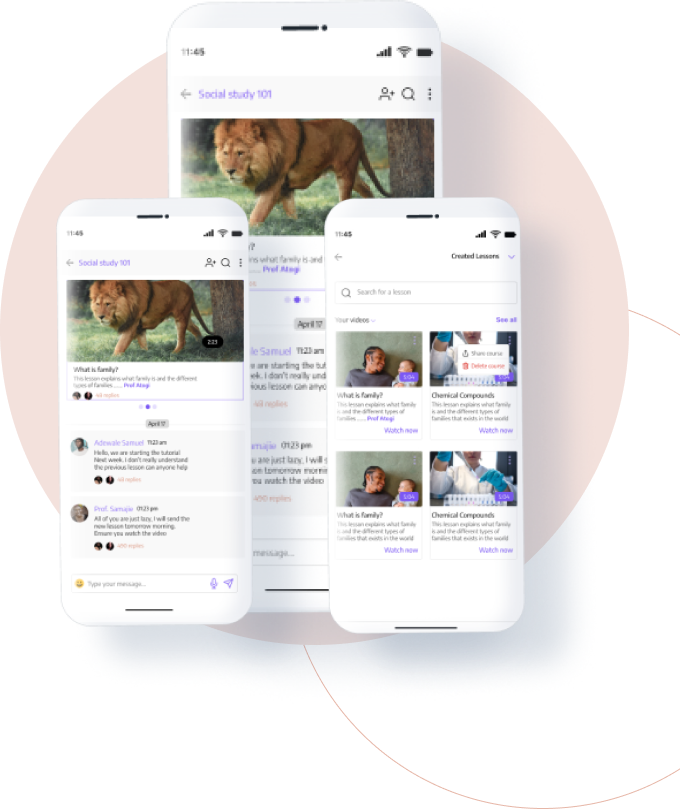
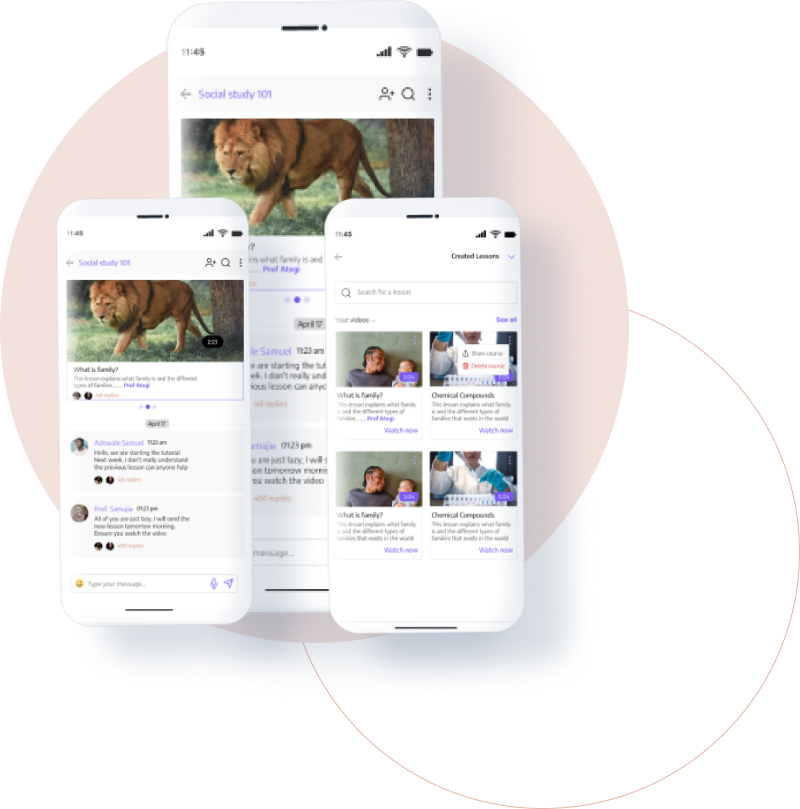
fix: correct text on features card and footer

diff --git a/utils/staticData.ts b/utils/staticData.ts
@@ -41,15 +41,15 @@ export interface SocialBtnProps {
 export const features = [
   {
     src: "/images/features/pana.png",
-    desc: "Tutors create a video lesson, by verbally explaining the visuals lesson slides while screen recording",
+    desc: "Tutors create a video lesson, by verbally explaining the visuals lesson slides while screen recording.",
   },
   {
     src: "/images/features/cuate.png",
-    desc: "Learners access the video lessons by watching online (On mobile or web) or downloading for offline access",
+    desc: "Learners access the video lessons by watching online  or downloading for offline access.",
   },
   {
     src: "/images/features/amico.png",
-    desc: "Tutors and learners stay connected 24/7 through the messaging feature in our platform (Web and mobile",
+    desc: "Tutors and learners stay connected 24/7 through the messaging feature in our platform.",
   },
 ];
 

diff --git a/components/sections/Connect.tsx b/components/sections/Connect.tsx
@@ -20,13 +20,13 @@ export default function Connect() {
                 >
                     <Text color='neutral.30'>Let’s Connect</Text>
                     <Heading fontSize={{ base: '3xl', md: '4xl' }}
-                        color='neutral.30' mt='2rem'
+                        color='neutral.50' mt='2rem'
                     >
                         <Text textAlign='center'>Stay Connected with Our Newsletter</Text>
                         <Text textAlign='center'>for the Latest Updates</Text>
 
                     </Heading>
-                    <Box bg={'neutral.30'} py='2rem' mt='2rem'
+                    <Box bg={'neutral.50'} py='2rem' mt='2rem'
                         width={{ base: '100%', md: '715.559px' }}
                         borderRadius='20px'
                         px={{ base: '1rem', md: '3rem', lg: '3rem' }}

diff --git a/components/navigation/Footer.tsx b/components/navigation/Footer.tsx
@@ -47,7 +47,7 @@ export default function Footer(): JSX.Element {
                         <Box>
                             <Image src={Logo} alt='logo' />
                             <Box width={{ base: '100%', md: '404px' }} mt='2rem'>
-                                <Text color='black.40'>Bridging the Gap Between Learners and Tutors with Our Innovative Product</Text>
+                                <Text color='black.40'>Bridging the Gap Between Learners and Tutors</Text>
                             </Box>
                             <Box mt='3rem'>
                                 <Text color='black.40' fontSize='lg'>© {new Date().getFullYear()} All rights reserved </Text>
